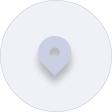
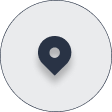
Revise styling

diff --git a/src/Place.js b/src/Place.js
@@ -23,7 +23,7 @@ class Place extends React.Component {
 
     return (
       <div className="place" key={id}>
-        <svg width="30" height="30" viewBox="0 0 30 30" fill="none"><path fillRule="evenodd" clipRule="evenodd" d="M15 30C23.2843 30 30 23.2843 30 15C30 6.71573 23.2843 0 15 0C6.71573 0 0 6.71573 0 15C0 23.2843 6.71573 30 15 30ZM20.1693 12.2923C20.1693 15.1688 17.252 22.084 14.8773 22.084C12.5026 22.084 9.58594 15.1688 9.58594 12.2923C9.58594 9.41583 12.0008 7.08398 14.8773 7.08398C17.7538 7.08398 20.1693 9.41583 20.1693 12.2923ZM17.5 12.5C17.5 13.8807 16.3807 15 15 15C13.6193 15 12.5 13.8807 12.5 12.5C12.5 11.1193 13.6193 10 15 10C16.3807 10 17.5 11.1193 17.5 12.5Z" fill="#E4A99B" /></svg>
+        <svg width="30" height="30" viewBox="0 0 30 30" fill="none"><path fillRule="evenodd" clipRule="evenodd" d="M15 30C23.2843 30 30 23.2843 30 15C30 6.71573 23.2843 0 15 0C6.71573 0 0 6.71573 0 15C0 23.2843 6.71573 30 15 30ZM20.1693 12.2923C20.1693 15.1688 17.252 22.084 14.8773 22.084C12.5026 22.084 9.58594 15.1688 9.58594 12.2923C9.58594 9.41583 12.0008 7.08398 14.8773 7.08398C17.7538 7.08398 20.1693 9.41583 20.1693 12.2923ZM17.5 12.5C17.5 13.8807 16.3807 15 15 15C13.6193 15 12.5 13.8807 12.5 12.5C12.5 11.1193 13.6193 10 15 10C16.3807 10 17.5 11.1193 17.5 12.5Z" fill="#f95665" /></svg>
         <span className="info-wrapper">
           <span className="address">{ address }</span>
           <span className="time-distance">

diff --git a/src/Map.js b/src/Map.js
@@ -52,6 +52,7 @@ class Map extends React.Component {
     this.map = new this.google.maps.Map(
       this.mapRef.current, // current is the DOM element for the reference.
       {
+        zoomControl: false,
         fullscreenControl: false,
         styles: [
           {
@@ -288,8 +289,8 @@ class Map extends React.Component {
         map: this.map,
         icon: {
           url: image,
-          size: new this.google.maps.Size( 56, 56 ),
-          scaledSize: new this.google.maps.Size( 56, 56 ),
+          size: new this.google.maps.Size( 20, 26 ),
+          scaledSize: new this.google.maps.Size( 20, 26 ),
         },
       } );
 

diff --git a/src/Table.css b/src/Table.css
@@ -19,26 +19,6 @@
   padding-bottom: 10px;
 }
 
-.address {
-  font-family: Inter;
-  font-style: normal;
-  font-weight: normal;
-  font-size: 15px;
-  color: #3E4958;
-  padding-right: 45px;
-}
-
-.time-distance {
-  font-family: Inter;
-  font-style: normal;
-  font-weight: normal;
-  font-size: 13px;
-  color: #97ADB6;
-  display: flex;
-  flex-direction: row;
-  justify-content: space-between;
-}
-
 @media (max-width: 767px) {
   .is-map-view .table-wrapper {
       display: none;

diff --git a/src/Place.css b/src/Place.css
@@ -9,3 +9,23 @@
     margin-left: 12px;
     width: 100%;
 }
+
+.address {
+    font-family: Inter;
+    font-style: normal;
+    font-weight: normal;
+    font-size: 15px;
+    color: #293345;
+    padding-right: 45px;
+}
+
+.time-distance {
+    font-family: Inter;
+    font-style: normal;
+    font-weight: normal;
+    font-size: 13px;
+    color: #97ADB6;
+    display: flex;
+    flex-direction: row;
+    justify-content: space-between;
+}

diff --git a/src/Card.css b/src/Card.css
@@ -9,3 +9,15 @@
     left: 45%;
     transform: translate(-50%);
 }
+
+@media (max-width: 767px) {
+    .card-wrapper {
+        padding: 12px 10px;
+        border-bottom-left-radius: 0;
+        border-bottom-right-radius: 0;
+        width: 100%;
+        left: 0;
+        margin: 0;
+        transform: none;
+    }
+}
